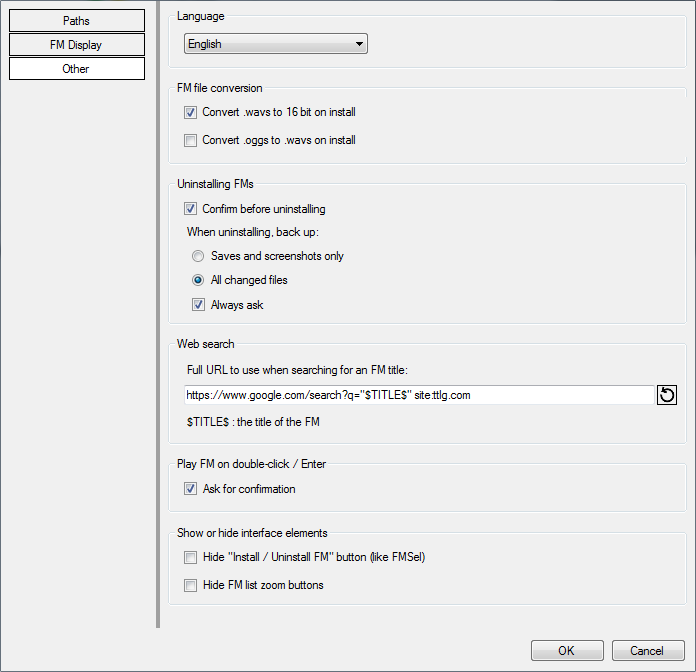
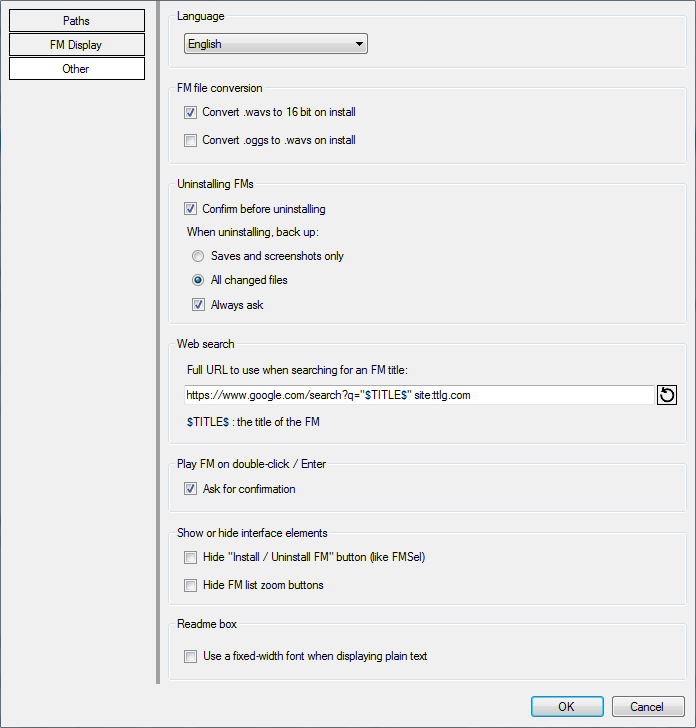
Update doc for fixed-width font option

diff --git a/doc/AngelLoader documentation.html b/doc/AngelLoader documentation.html
@@ -424,6 +424,9 @@ For extra-strength misclick prevention, enable this. You will still be able to i
 <h4>Hide FM list zoom buttons</h4>
 Since you can zoom the FMs list with the keyboard or Ctrl+mousewheel, you can hide these buttons to free up room.
 
+<h4>Use a fixed-width font when displaying plain text</h4>
+Some readmes may look better when displayed in a fixed-width font. This option only applies to plain text readme files; other file types will use their own fonts. This behavior matches DarkLoader.
+
 <hr>
 
 <h2><a name="appendix" />Appendix</h2>
